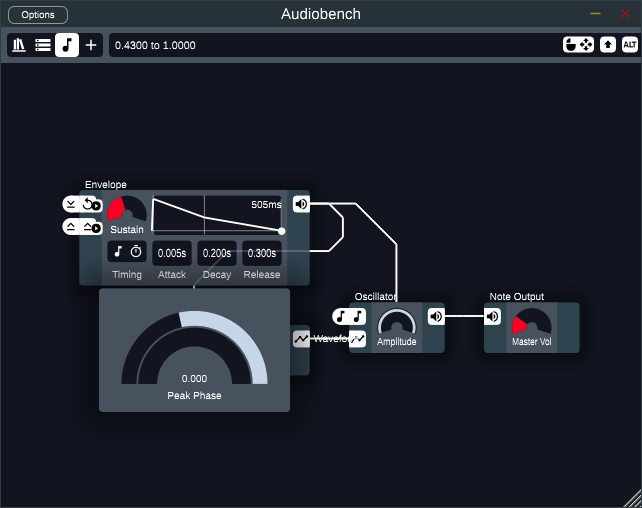
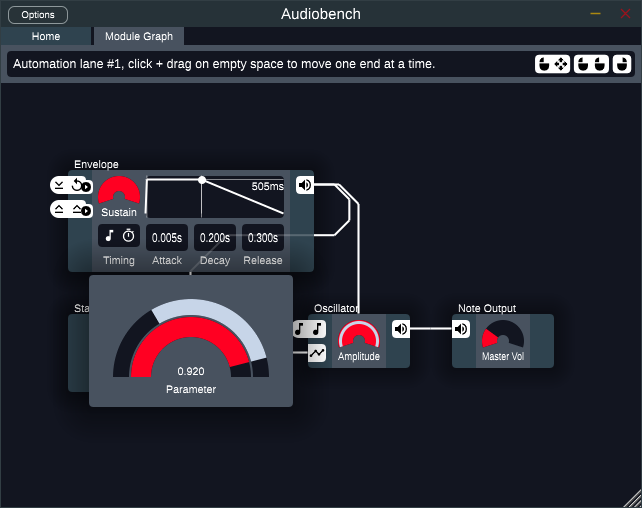
Updated book

Changed region(s): [[0.0623, 0.2953, 0.9034, 0.8268], [0.0, 0.0295, 1.0, 0.1772]]

diff --git a/docs/book/src/getting_started.md b/docs/book/src/getting_started.md
@@ -26,25 +26,31 @@ affected by the wire coming from the envelope module. We say that the
 *amplitude* control is **automated** by the output from the envelope. If you
 change some of the controls on the envelope by clicking and dragging them, you
 change how the *amplitude* of the oscillator changes over time. The only
-controls that can be automated are **knobs** and **sliders**. You can automate
-them by dragging a wire from an output onto a knob or slider. One way to make
-this patch more interesting is by making the envelope automate the *peak phase*
-control on the triangle wave module:
+controls that can be automated at the moment are **knobs** and **sliders**. You
+can automate them by dragging a wire from an output onto one of these controls.
+One way to make this patch more interesting is by making the envelope automate
+the *parameter* control on the basic shape module:
 
 ![Triangle wave automated by envelope](images/default_c.png)
 
-You may have noticed while setting that up that the audio cut out and a
-notification saying "compiling" appeared. Because of how Audiobench works
-internally, some changes necessitate doing a slow, one-time process called
-"compilation" before you can start playing notes again. This process will not
-occur whenever you modify a control. Right now compilation is fairly slow, this
-will be improved as development continues.
-
 You can change the range of the automation by right-clicking on the knob and
 clicking and dragging on the **automation lane**. You can also right-click on
-the lane itself to remove its automation from the control.
+the lane itself to remove its automation from the control. 
 
 ![Automation being adjusted](images/default_d.png)
+
+While hovering over the basic shape module a box will appear to show you the
+shape the module is outputting. Hovering over some other modules will show you
+the audio they are outputting.
+
+![Hovering over the starter shape module to view its output](images/shape_preview.png)
+
+You may have noticed while setting that up that the audio cut out and a
+notification saying "working" appeared. Because of how Audiobench works
+internally, some changes necessitate doing a slow, one-time process called
+"compilation" before you can start playing notes again. This process will not
+occur whenever you modify a control. 
+
 
 The last thing to talk about is **inputs** and **outputs**. These are the white
 boxes that appear on the sides of each module. Inputs are on the left and
@@ -63,8 +69,8 @@ through a handful of default waveforms. Inputs and outputs can be connected by
 clicking and dragging.
 
 # Beyond The Default Patch
-To really start making some noise, you'll want to add in more modules, The plus
-button at the top left of the screen takes you to the **module browser**, which
+To really start making some noise, you'll want to add in more modules.
+Double-clicking the module graph takes you to the **module browser**, which
 lists all available modules:
 
 ![List of available modules](images/module_browser.png)
@@ -76,18 +82,18 @@ patches.
 
 ![The default patch with an LFO added](images/default_e.png)
 
-Once you have something you like, go to the patch browser by clicking its icon
-in the top-left corner. This is where all the factory-provided and user-made
-patches live. To save your patch, first click the '+' button to make a new file.
-Give it a name, then click the save button to save your changes. If you want to
-easily share your patch with other people, click the copy button to get a piece
-of text that represents your patch. Others can then copy that text and click the
-paste button to load your patch. You can try it out with this code for the
-patch in the picture above:
+Once you have something you like, you can save your patch by clicking the '+'
+button to save it in a new file. (You may need to hover over the top bar to
+reveal the button.) You can then change the name in the home tab. You can save
+additional changes to the same patch by clicking the save button, or to a new
+patch by clicking the '+' button again. If you want to easily share your patch
+with other people, click the copy button to get a piece of text that represents
+your patch. Others can then copy that text and click the paste button to load
+your patch. You can try it out with this code for the patch in the picture
+above:
 
 ```
-AQAXR2V0dGluZyBTdGFydGVkIEV4YW1wbGUAAAEABf8DAeAAqAUBUACoBgB4AMAKADAAAA7_cAB4CyIA
-AQJoAGqqAAA7o9cKAD5MzM0APpmZmgAAP4AAAAIzAwQ
+AgcARGVmYXVsdAEHAEZhY3RvcnkgAgUAAsj-__9w____AABgAAAAGAAAAAAB0P___xgAAAAAA_j-__8wAAAAAATw_f__6P___0D4_weAwvXoDs3MTD5oZmb6FAAAAAgcABMAAAD8_xNIAAAA_v-N_38AgAAAAAD8IQA
 ```
 
 # Miscellaneous Tips
@@ -96,7 +102,5 @@ AQJoAGqqAAA7o9cKAD5MzM0APpmZmgAAP4AAAAIzAwQ
 - The timing control lets you set if durations should be in terms of beats or
   seconds and also lets you sync up certain modules with the current time in
   your song.
-- Using a MIDI Control module with the control set to 1 will let you automate
-  things using the mod wheel.
-- The library browser panel (the first icon in the top-left) will tell you what
-  new features are available if a new version of Audiobench has been released.
+- The library browser will tell you what new features are available if a new
+  version of Audiobench has been released.

diff --git a/docs/book/src/additional_libraries.md b/docs/book/src/additional_libraries.md
@@ -1,0 +1,7 @@
+# Additional Libraries
+
+Libraries are files that contain new modules and patches to be added to
+Audiobench. To install one, simply place it in `Documents/Audiobench/`. You'll
+notice that there is already a library called `User` in this folder which
+contains all the custom patches you make. Check out the next chapter if you want
+to experiment with making your own library.

diff --git a/docs/book/src/SUMMARY.md b/docs/book/src/SUMMARY.md
@@ -1,3 +1,6 @@
 # Summary
 
 - [Getting Started](./getting_started.md)
+- [Additional Libraries](./additional_libraries.md)
+- [Making Your Own Libraries](./making_libraries/start.md)
+    - [Adding Patches](./making_libraries/adding_patches.md)
